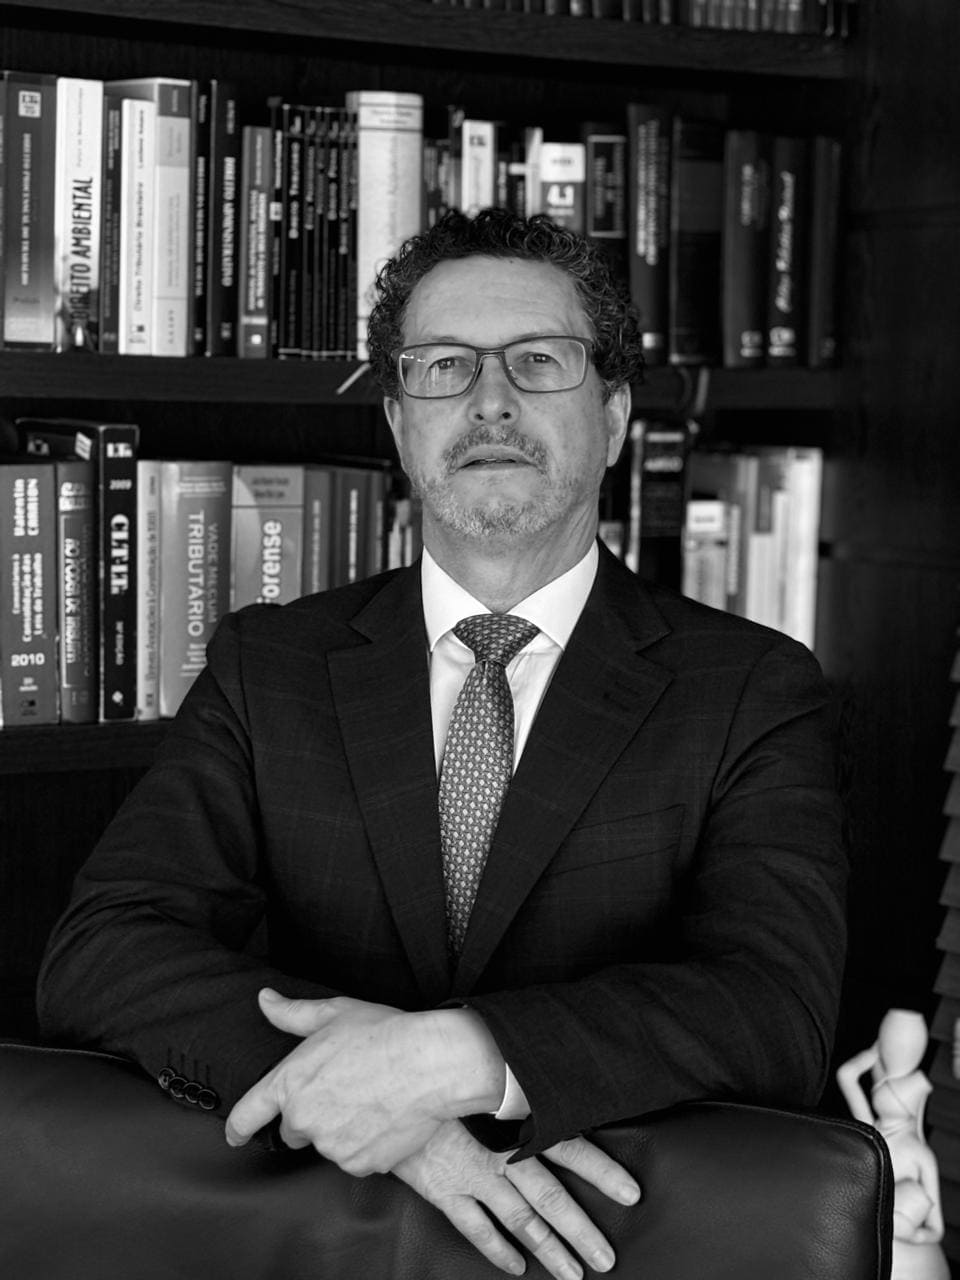
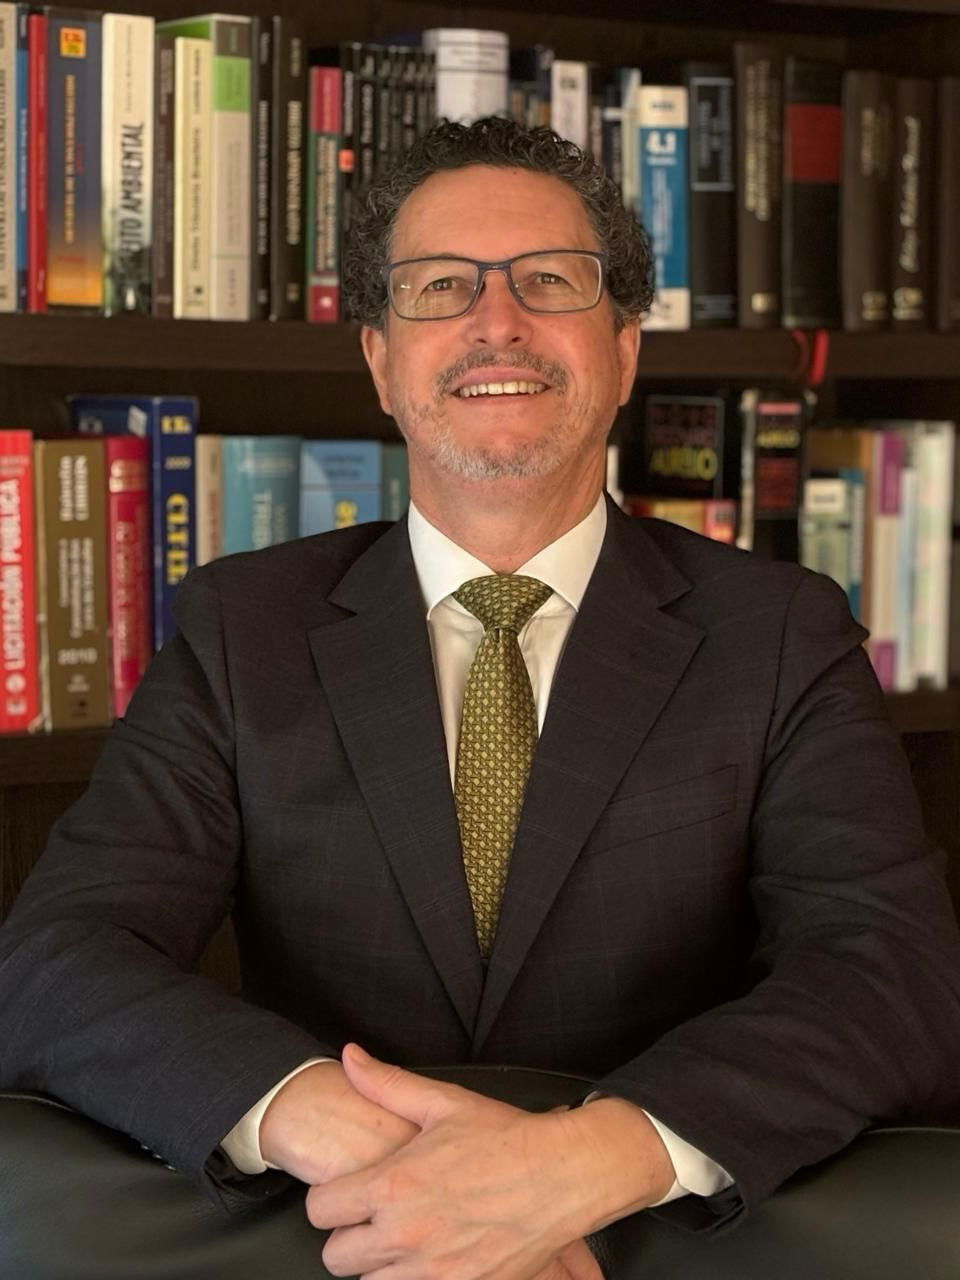
trocando informações da equipe

diff --git a/public/index.html b/public/index.html
@@ -215,7 +215,7 @@
           <div class="candidate-content">
             <h3>Antonio Pedro Lovato</h3>
             <dl class="candidate-basics"><div><dt>Origem italiana</dt><dd>Veneto</dd></div><div><dt>Atuação</dt><dd>Advogado, professor e dirigente comunitário</dd></div></dl>
-            <details class="candidate-details"><summary><span class="when-closed">Abrir minibio</span><span class="when-open">Fechar minibio</span></summary><p>Antonio Pedro Lovato tem raízes familiares no Veneto. Seu avô, Vittorio Lovato, emigrou de Verona para o Brasil em 1893, trajetória que inspirou seu livro <em>Esperanças de Menino – Imigrantes, Caminhos e Histórias</em>, publicado em 2025. Advogado há mais de 30 anos, é doutor em Ciências Jurídicas e Sociais, mestre em Direito Ambiental Constitucional e pós-graduado em Direito Constitucional e Tributário, tendo atuado também como professor universitário. Sua trajetória inclui funções na gestão pública municipal e na CEAGESP. Atualmente preside a Associação de Intercâmbio Cultural Ítalo-Brasileira Anita e Giuseppe Garibaldi, dedicada à promoção da cultura, da memória e dos vínculos entre Brasil e Itália.</p></details>
+            <details class="candidate-details"><summary><span class="when-closed">Abrir minibio</span><span class="when-open">Fechar minibio</span></summary><p>Antonio Pedro Lovato tem raízes familiares no Veneto. Seu avô, Vittorio Lovato, emigrou de Verona para o Brasil em 1893, trajetória que inspirou seu livro <em>Esperanças de Menino – Imigrantes, Caminhos e Histórias</em>, publicado em 2025. Advogado há mais de 30 anos, é doutor em Ciências Jurídicas e Sociais, mestre em Direito Ambiental Constitucional e pós-graduado em Direito Constitucional e Tributário, tendo atuado também como professor universitário. Sua trajetória inclui funções na gestão pública municipal e na CEAGESP. Atualmente preside a Associação de Intercâmbio Cultural Ítalo-Brasileira Anita e Giuseppe Garibaldi, dedicada à promoção da cultura, da memória e dos vínculos entre Brasil e Itália. Secretário Executivo do Instituto Tecnológico de Medicina Inteligente do Brasil.</p></details>
           </div>
         </article>
         <article class="candidate-card">
